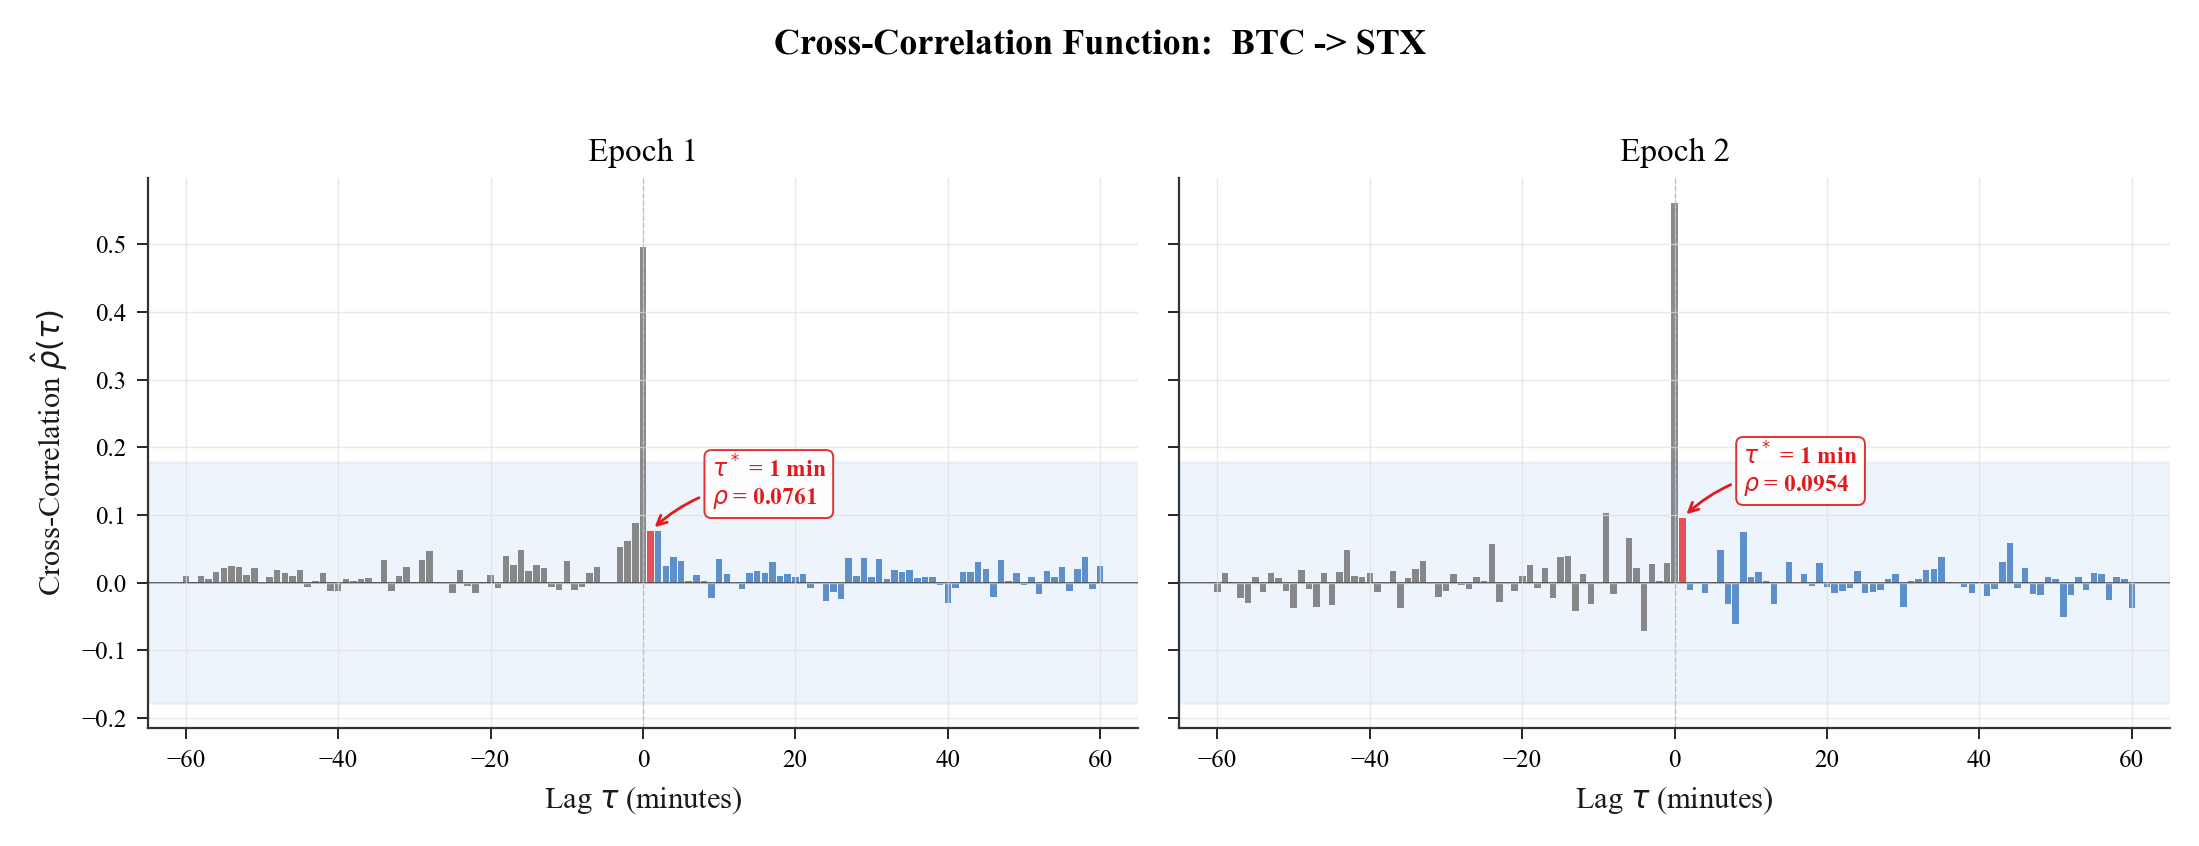
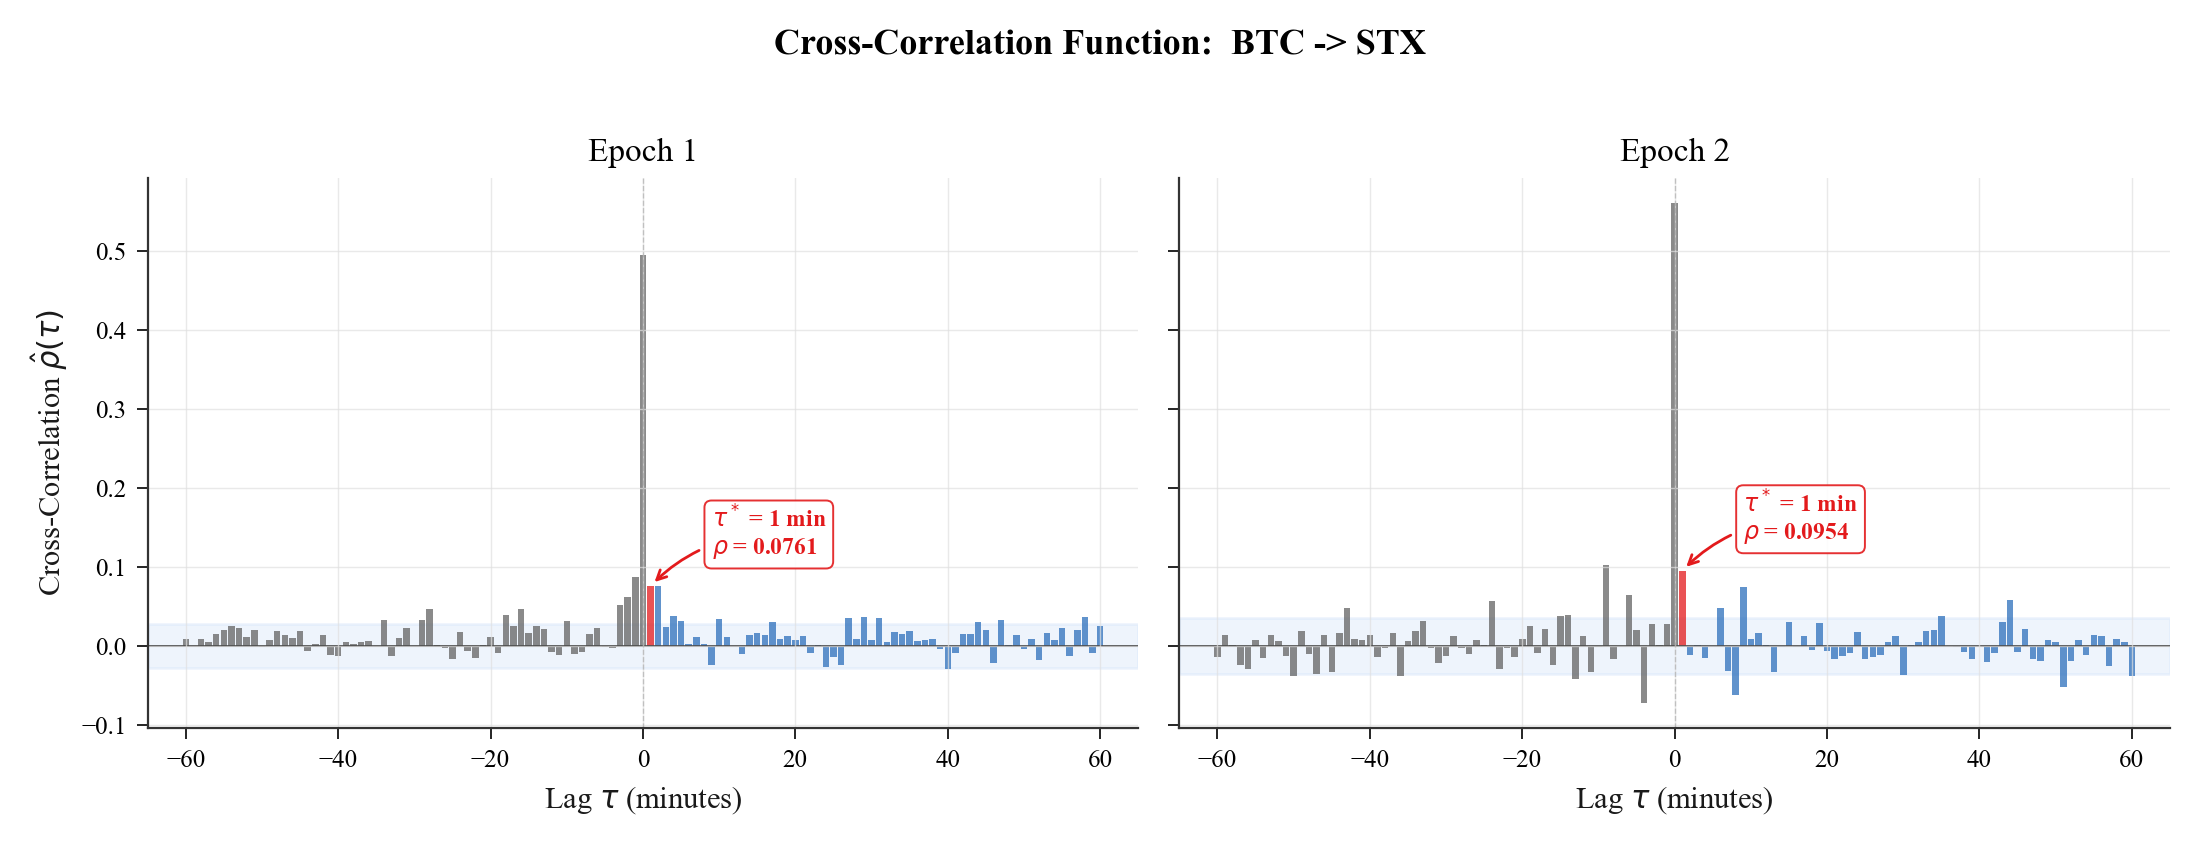
changed output for ccf graphs

diff --git a/pipeline/visualisation.py b/pipeline/visualisation.py
@@ -114,14 +114,16 @@ def plot_ccf_correlogram(
     """
     _apply_style()
     n_epochs = len(ccf_data)
+    cols = min(n_epochs, 2)
+    rows = (n_epochs + cols - 1) // cols
     fig, axes = plt.subplots(
-        1, n_epochs, figsize=(5.5 * n_epochs, 4),
+        rows, cols, figsize=(5.5 * cols, 4 * rows),
         sharey=True, squeeze=False,
     )
-    axes = axes[0]
+    axes_flat = axes.flatten()
 
     for i, epoch in enumerate(ccf_data):
-        ax = axes[i]
+        ax = axes_flat[i]
         lags = np.array(epoch["lags"])
         corrs = np.array(epoch["correlations"])
         opt_lag = epoch["optimal_lag"]
@@ -165,10 +167,13 @@ def plot_ccf_correlogram(
         )
 
         ax.set_xlabel("Lag $\\tau$ (minutes)")
-        if i == 0:
+        if i % cols == 0:
             ax.set_ylabel("Cross-Correlation $\\hat{\\rho}(\\tau)$")
         ax.set_title(f"Epoch {i + 1}", fontweight="medium")
         ax.set_xlim(-65, 65)
+
+    for i in range(n_epochs, len(axes_flat)):
+        fig.delaxes(axes_flat[i])
 
     fig.suptitle(
         f"Cross-Correlation Function:  {system_label}",
